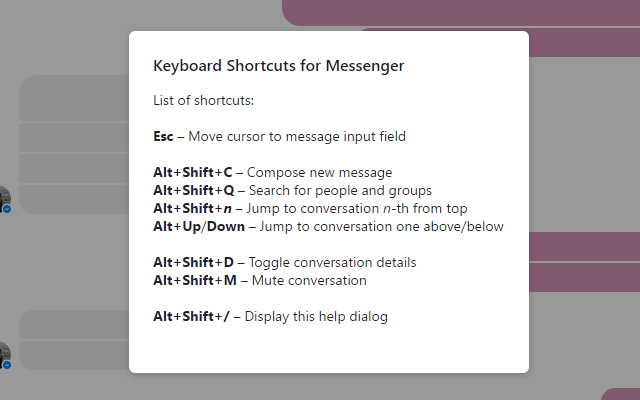
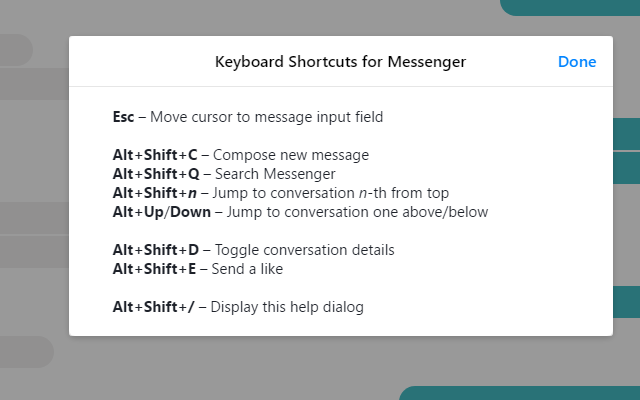
Major overhaul
Removed broken mute command, fixed help dialog, reorganized code.

diff --git a/src/messenger-shortcuts.js b/src/messenger-shortcuts.js
@@ -4,42 +4,56 @@
  * Author: Allen Guo <guoguo12@gmail.com>
  *****************************************/
 
-/** Key bindings **/
-/** Compose, ToggleInfo, Mute, Search, SendLike **/
-var bind = ['C', 'D', 'M', 'Q', 'E'];
 
 /** Constants **/
 
-HELP_HTML = "List of shortcuts:\
-<br><br>\
-<b>Esc</b> &ndash; Move cursor to message input field<br><br>\
-<b>Alt+Shift+"+bind[0]+"</b> &ndash; Compose new message<br>\
-<b>Alt+Shift+"+bind[3]+"</b> &ndash; Search Messenger<br>\
+// Compose, toggle info, search, send like, search
+KEYS = ['C', 'D', 'Q', 'E', '/'];
+
+HELP_TITLE = 'Keyboard Shortcuts for Messenger';
+
+HELP_TEXT = "<b>Esc</b> &ndash; Move cursor to message input field<br><br>\
+<b>Alt+Shift+" + KEYS[0] + "</b> &ndash; Compose new message<br>\
+<b>Alt+Shift+" + KEYS[2] + "</b> &ndash; Search Messenger<br>\
 <b>Alt+Shift+<i>n</i></b> &ndash; Jump to conversation <i>n</i>-th from top<br>\
 <b>Alt+Up</b>/<b>Down</b> &ndash; Jump to conversation one above/below<br><br>\
-<b>Alt+Shift+"+bind[1]+"</b> &ndash; Toggle conversation details<br>\
-<b>Alt+Shift+"+bind[2]+"</b> &ndash; Mute conversation<br>\
-<b>Alt+Shift+"+bind[4]+"</b> &ndash; Send a like<br><br>\
-<b>Alt+Shift+/</b> &ndash; Display this help dialog<br>\
+<b>Alt+Shift+" + KEYS[1] + "</b> &ndash; Toggle conversation details<br>\
+<b>Alt+Shift+" + KEYS[3] + "</b> &ndash; Send a like<br><br>\
+<b>Alt+Shift+" + KEYS[4] + "</b> &ndash; Display this help dialog<br>\
 "
 
-/** Menu **/
-var menuOpened = false;
 
-/** Prevent holding down the like button **/
+/** Global variables and listeners **/
+
+// Tracks whether the like button is down
 var likeDown = false;
+
+// Releases the like button
+document.body.addEventListener('keyup', function () {
+  if (likeDown) {
+    var targetNode = getByAttr('a', 'aria-label', 'Send a Like');
+    fireMouseEvent(targetNode, 'mouseup');
+    likeDown = false;
+  }
+}, false);
+
 
 /** Primary event handler **/
 
 document.body.onkeydown = function(event) {
   // Esc key
   if (event.keyCode === 27) {
-    dismiss();
     focusMessageInput();
   }
 
+  // Do nothing if a dialog is open or if the like button is down
+  if (document.querySelector('div[role="dialog"]') || likeDown) {
+    return;
+  }  
+
+  // Enter key (select first search result)
   if (event.keyCode == 13 && document.activeElement === getSearchBar()) {
-    // we're going to change the input, so throw away this keypress
+    // We're going to change the input, so throw away this keypress
     event.preventDefault();
     selectFirstSearchResult();
     return;
@@ -52,10 +66,10 @@ document.body.onkeydown = function(event) {
 
   // Number keys
   if (event.keyCode >= 49 && event.keyCode <= 57) {
-    jumpToMessage(event.keyCode - 49);
+    jumpToNthMessage(event.keyCode - 49);
   }
 
-  // Other keys
+  // Actions
   switch (event.keyCode) {
     case getCode(0):
       compose();
@@ -64,37 +78,17 @@ document.body.onkeydown = function(event) {
       toggleInfo();
       break;
     case getCode(2):
-      mute();
-      break;
-    case getCode(3):
       focusSearchBar();
       break;
-    case getCode(4):
-      if (likeDown) {
-        return;
-      }
-      likeDown = true;
+    case getCode(3):
       sendLike();
       break;
-    case 191: // Fwd. slash
-      if (menuOpened) {
-        return;
-      } else {
-        openHelp();
-      } 
-      menuOpened = !menuOpened;
+    case getCode(4):
+      openHelp();
       break;
   }
 }
 
-// For like button spamming
-document.body.addEventListener('keyup', function () {
-  likeDown = false;
-  triggerMouseEvent(targetNode, "mouseup");
-}, false);
-
-// Toggle dismiss state of help dialog on click to close
-document.body.addEventListener('click', dismiss, true); 
 
 /** Helper functions **/
 
@@ -107,40 +101,50 @@ function last(arr) {
 }
 
 function getCode(index) {
-  return bind[index].charCodeAt(0);
+  var key = KEYS[index];
+  return key === '/' ? 191 : key.charCodeAt(0);
 }
 
-function dismiss() {
-  if (menuOpened) {
-    menuOpened = false;
+// Modified from http://stackoverflow.com/a/2706236
+function fireMouseEvent(targetNode, event) {
+  if (targetNode.fireEvent) {
+    targetNode.fireEvent('on' + event);
+  } else {
+    var eventObject = document.createEvent('MouseEvents');
+    eventObject.initEvent(event, true, false);  // Yes bubble, no cancel
+    targetNode.dispatchEvent(eventObject);
   }
 }
 
-/** Functionality **/
+// A user reported that their built-in click() function doesn't work...
+function click(targetNode) {
+  fireMouseEvent(targetNode, 'click');
+}
 
-function jumpToMessage(index) {
-  document.querySelectorAll('div[aria-label="Conversations"] a')[index].click();
+
+/** Page actions **/
+
+function focusMessageInput() {
+  click(getByAttr('div', 'role', 'combobox'));
 }
 
 function selectFirstSearchResult() {
-  var first = document.querySelector('span[role="search"] a');
+  var first = document.querySelector('ul[role="listbox"] li div');
   if (first) {
-    first.click();
-    // focus message input afterwards in case the user already has that chat open
-    focusMessageInput();
+    click(first);
   }
 }
 
+function jumpToNthMessage(index) {
+  document.querySelectorAll('div[aria-label="Conversations"] a')[index].click();
+}
+
 function compose() {
-  getByAttr('a', 'aria-label', 'New Message').click();
+  click(getByAttr('a', 'aria-label', 'New Message'));
 }
 
 function toggleInfo() {
-  getByAttr('a', 'title', 'Conversation Information').click();
-}
-
-function mute() {
-  getByAttr('input', 'type', 'checkbox').click();
+  click(getByAttr('a', 'aria-label', 'Conversation Information'));
 }
 
 function getSearchBar() {
@@ -151,34 +155,36 @@ function focusSearchBar() {
   getSearchBar().focus();
 }
 
-function focusMessageInput() {
-  targetNode = getByAttr('div', 'aria-label', 'Type a message...')
-  triggerMouseEvent(targetNode, "mouseover");
-  triggerMouseEvent(targetNode, "mousedown");
-  triggerMouseEvent(targetNode, "mouseup");
-  triggerMouseEvent(targetNode, "click");
+function sendLike() {
+  var targetNode = getByAttr('a', 'aria-label', 'Send a Like');
+  fireMouseEvent(targetNode, 'mouseover');
+  fireMouseEvent(targetNode, 'mousedown');  // Released by keyup listener
+
+  likeDown = true;
 }
 
-function openDeleteDialog() {
-  last(document.querySelectorAll('div.contentAfter div[aria-label="Conversation actions"]')).click();
-  document.querySelector('a[role="menuitem"] span span').click();
+function openSettings() {
+  // Briefly open cog button so that settings menu item exists in the HTML
+  var cogButton = getByAttr('a', 'role', 'button');
+  click(cogButton);
+  click(cogButton);
+
+  click(getByAttr('a', 'role', 'menuitem'));
 }
 
 function openHelp() {
-  mute();
-  document.querySelector('div[role="dialog"] h2').innerHTML = "Keyboard Shortcuts for Messenger";
-  document.querySelector('div[role="dialog"] h2~div').innerHTML = HELP_HTML;
-  document.querySelector('div[role="dialog"] h2~div~div').remove();
-}
+  // Open the settings dialog, which we're hijacking
+  openSettings();
 
-function sendLike() {
-  targetNode = getByAttr('a', 'aria-label', 'Send a Like');
-  triggerMouseEvent(targetNode, "mouseover");
-  triggerMouseEvent(targetNode, "mousedown");
-}
+  document.querySelector('div[role="dialog"] em').innerHTML = HELP_TITLE;
 
-function triggerMouseEvent(node, eventType) {
-  var clickEvent = document.createEvent('MouseEvents');
-  clickEvent.initEvent(eventType, true, true);
-  node.dispatchEvent(clickEvent);
+  var textDiv = document.querySelector('div[role="dialog"] h2~div');
+  textDiv.innerHTML = HELP_TEXT;
+  textDiv.style.lineHeight = '130%';
+  textDiv.style.padding = '20px';
+
+  var extraDivs = document.querySelectorAll('div[role="dialog"] h2~div~div');
+  for (var i = 0; i < extraDivs.length; i++) {
+    extraDivs[i].remove();
+  }
 }
